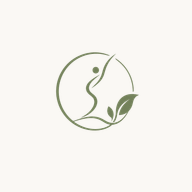
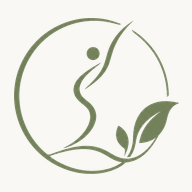
feat(console): 요청함 → 일정 조율 리네이밍 + 앱 아이콘 확대
- 콘솔 사이드바/상단/알림 문구의 "요청함"을 기능명 "일정 조율"로 통일
- gen-app-icons: 원본 투명 여백 trim 후 로고 비율 상향(any 0.86/maskable 0.7/apple 0.84) → 아이콘 확대 재생성

Changed region(s): [[0.0625, 0.0938, 0.9375, 0.9062], [0.6875, 0.1562, 0.8438, 0.3438]]

diff --git a/scripts/gen-app-icons.ts b/scripts/gen-app-icons.ts
@@ -14,7 +14,9 @@ const CREAM = { r: 250, g: 248, b: 244, alpha: 1 }; // #FAF8F4
 
 async function make(out: string, size: number, logoRatio: number) {
   const logoPx = Math.round(size * logoRatio);
-  const logo = await sharp(SRC).resize(logoPx, logoPx, { fit: "inside" }).png().toBuffer();
+  // trim() strips the source's transparent padding first, so logoRatio controls the
+  // VISIBLE emblem size (not the padded canvas) — otherwise raising the ratio barely grows it.
+  const logo = await sharp(SRC).trim().resize(logoPx, logoPx, { fit: "inside" }).png().toBuffer();
   await sharp({ create: { width: size, height: size, channels: 4, background: CREAM } })
     .composite([{ input: logo, gravity: "center" }])
     .png()
@@ -22,11 +24,12 @@ async function make(out: string, size: number, logoRatio: number) {
   console.log("wrote", out, `${size}px logo@${Math.round(logoRatio * 100)}%`);
 }
 
-// "any" icons — generous logo
-await make("public/brand/icon-512.png", 512, 0.8);
-await make("public/brand/icon-192.png", 192, 0.8);
-// maskable — logo inside the inner ~80% safe zone (mask can crop edges)
-await make("public/brand/maskable-512.png", 512, 0.62);
-// apple-touch-icon (iOS home screen, opaque)
-await make("public/brand/apple-touch-icon.png", 180, 0.78);
+// "any" icons — trimmed emblem fills the canvas with a small edge margin (unmasked)
+await make("public/brand/icon-512.png", 512, 0.86);
+await make("public/brand/icon-192.png", 192, 0.86);
+// maskable — emblem is round & centered, so ratio 0.7 keeps it within the circle-mask
+// safe zone (emblem radius ≈0.35 < the guaranteed r=0.4 zone).
+await make("public/brand/maskable-512.png", 512, 0.7);
+// apple-touch-icon (iOS home screen, opaque; iOS rounds the corners, round emblem is safe)
+await make("public/brand/apple-touch-icon.png", 180, 0.84);
 console.log("✅ icons generated");

diff --git a/src/lib/data/groups/notifications.ts b/src/lib/data/groups/notifications.ts
@@ -77,13 +77,13 @@ export async function notifyTrainersOfRequest(memberId: string, kind: "change" |
   const title = kind === "cancel" ? "수업 취소 요청" : "수업 변경 요청";
   const rows = trainers.map((tid) => ({
     recipient_type: "trainer", recipient_id: tid, type: "request",
-    title, body: "회원이 일정 조율을 요청했어요. 요청함에서 확인해주세요.", channel: "in_app", status: "unread",
+    title, body: "회원이 일정 조율을 요청했어요. 일정 조율 메뉴에서 확인해주세요.", channel: "in_app", status: "unread",
   }));
   await sb.from("notifications").insert(rows);
 }
 
 /**
- * 일정 요청의 처리 결과를 요청자에게 알림(수락/거절). 요청함·인박스만으로는 회원이 결과를 알 수 없어
+ * 일정 요청의 처리 결과를 요청자에게 알림(수락/거절). 일정 조율·인박스만으로는 회원이 결과를 알 수 없어
  * 부당 노쇼/헛걸음을 부른다(감사 H8). 'request' 타입 재사용(스키마 변경 불필요). best-effort.
  */
 export async function notifyRequestResult(input: {

diff --git a/src/components/console/Sidebar.tsx b/src/components/console/Sidebar.tsx
@@ -10,7 +10,7 @@ const NAV: NavItem[] = [
   { key: "dashboard", label: "운영 현황", href: "/console", icon: "home", activeIcon: "home-fill" },
   { key: "members", label: "회원", href: "/console/members", icon: "person", activeIcon: "person-fill", badgeKey: "members" },
   { key: "calendar", label: "수업 캘린더", href: "/console/calendar", icon: "calendar", activeIcon: "calendar-fill" },
-  { key: "requests", label: "요청함", href: "/console/requests", icon: "document-text", activeIcon: "document-text", badgeKey: "requests" },
+  { key: "requests", label: "일정 조율", href: "/console/requests", icon: "document-text", activeIcon: "document-text", badgeKey: "requests" },
   { key: "messages", label: "메시지", href: "/console/messages", icon: "message", activeIcon: "message-fill", badgeKey: "messages" },
   { key: "trainers", label: "강사", href: "/console/trainers", icon: "persons", activeIcon: "persons-fill" },
   { key: "revenue", label: "매출 현황", href: "/console/revenue", icon: "coins", activeIcon: "coins-fill" },

diff --git a/src/app/console/requests/page.tsx b/src/app/console/requests/page.tsx
@@ -7,7 +7,7 @@ export default async function ConsoleRequestsPage() {
   const { pending, done } = await getStudioInbox();
   return (
     <>
-      <Topbar title="요청함" sub={`처리 대기 ${pending.length}건`} />
+      <Topbar title="일정 조율" sub={`처리 대기 ${pending.length}건`} />
       <div className="flex-1 overflow-y-auto px-[34px] pb-10 pt-6">
         <div className="mx-auto max-w-[760px]">
           <div className="mb-[18px] flex items-center gap-2 rounded-[13px] border border-[rgba(184,154,94,0.22)] bg-[#F4EEE3] px-4 py-3">
